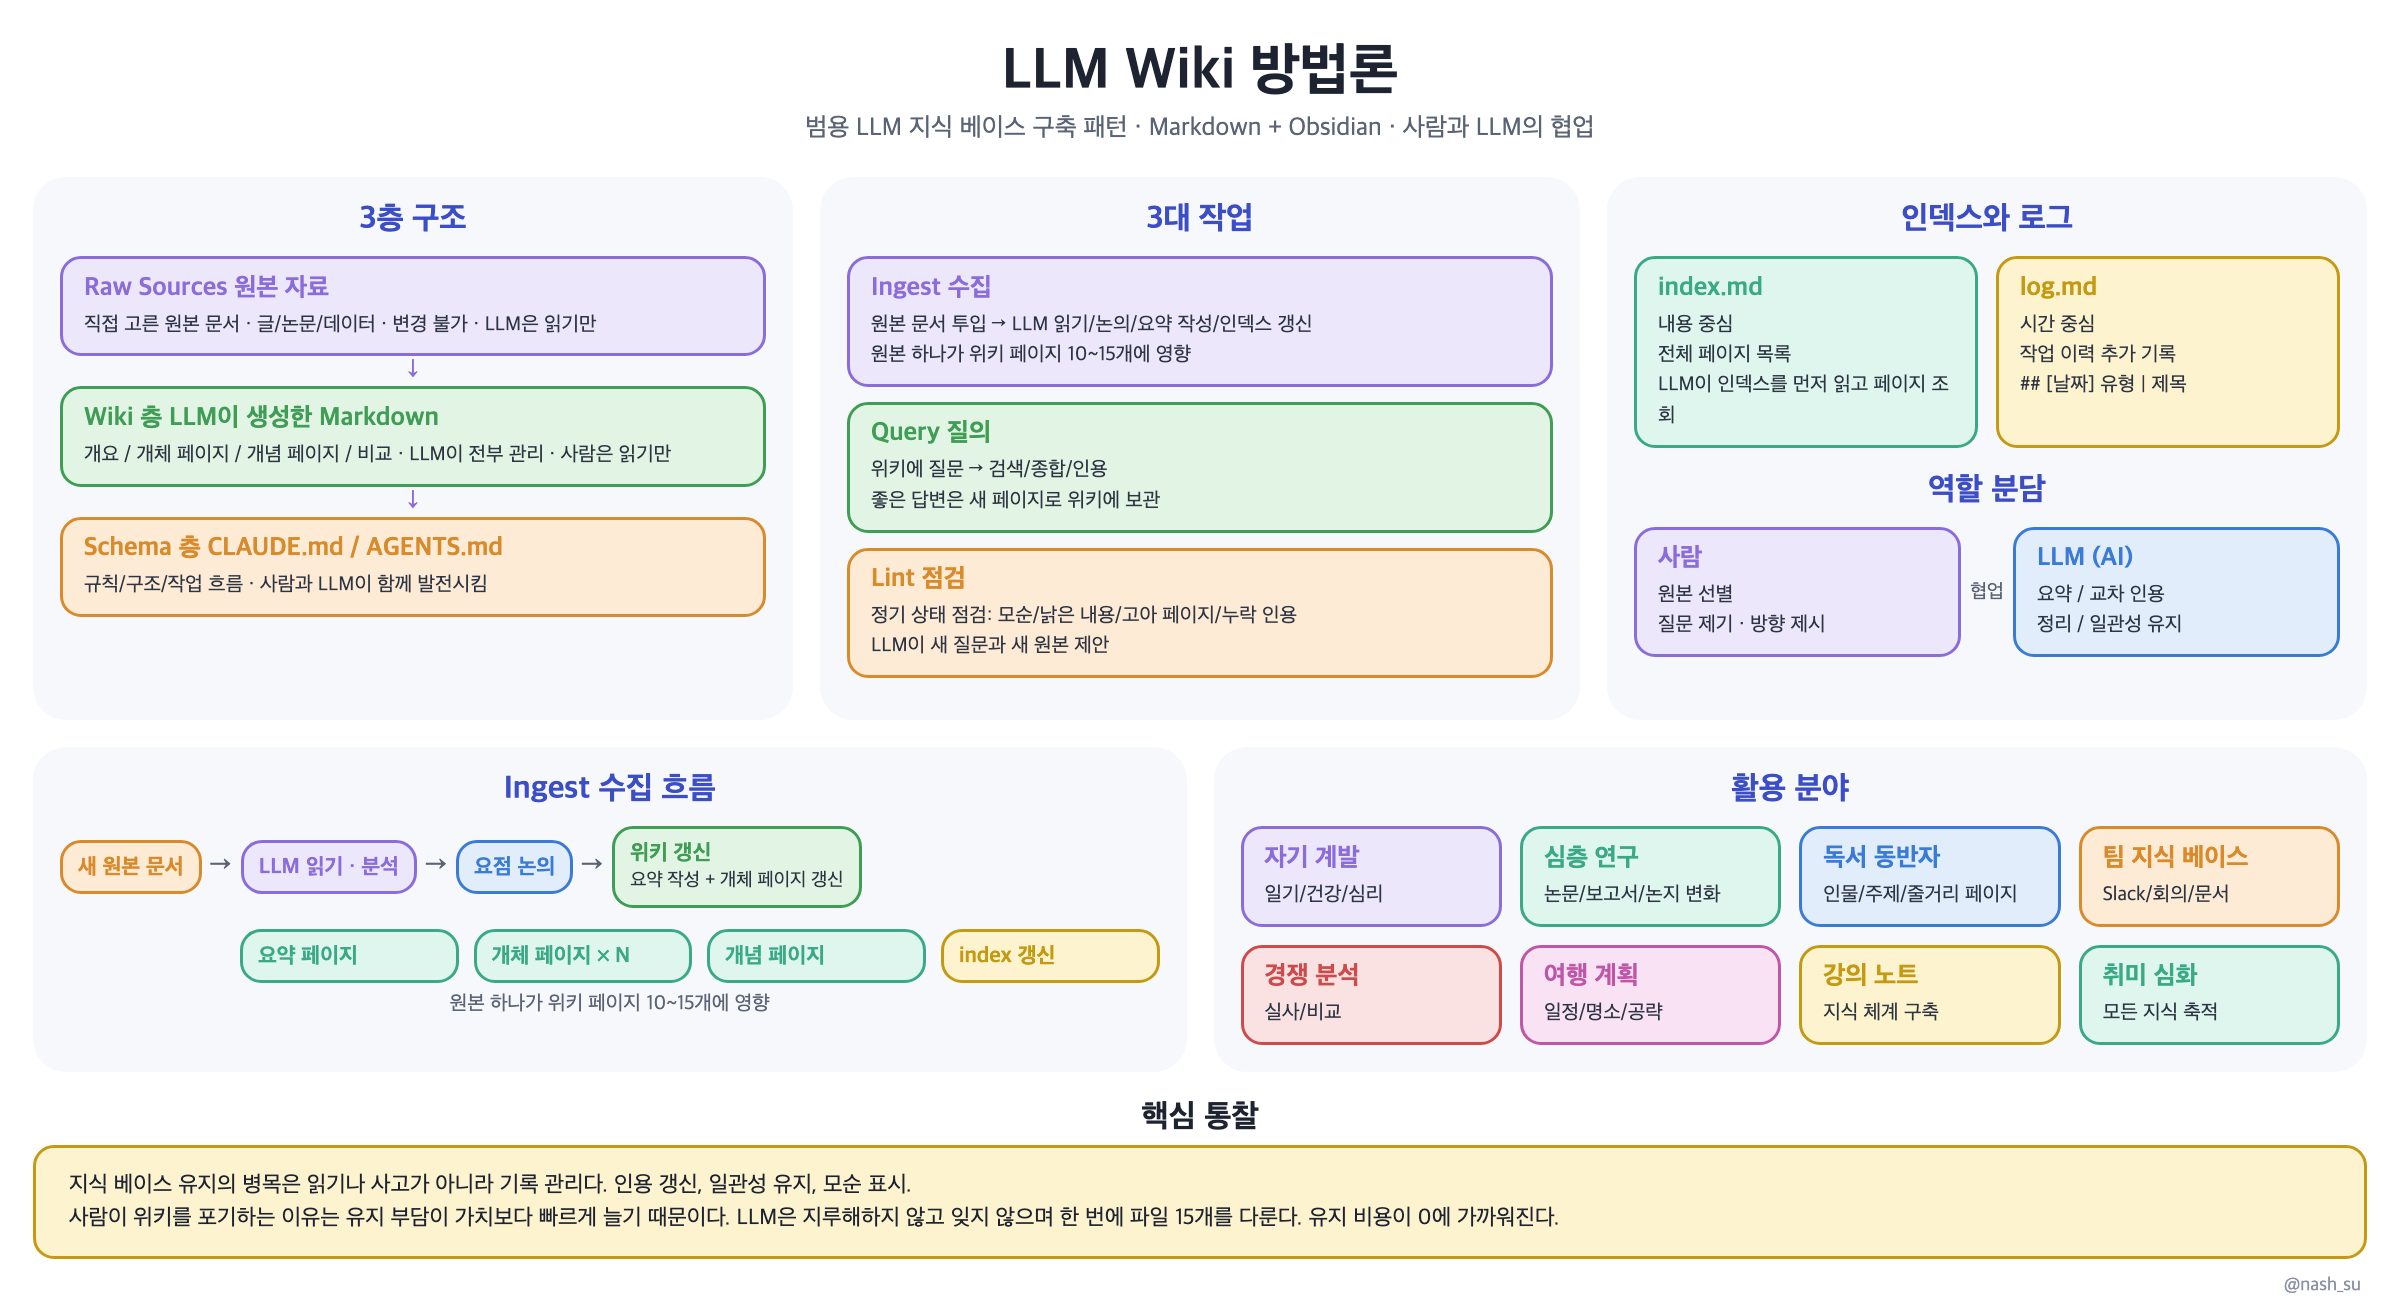
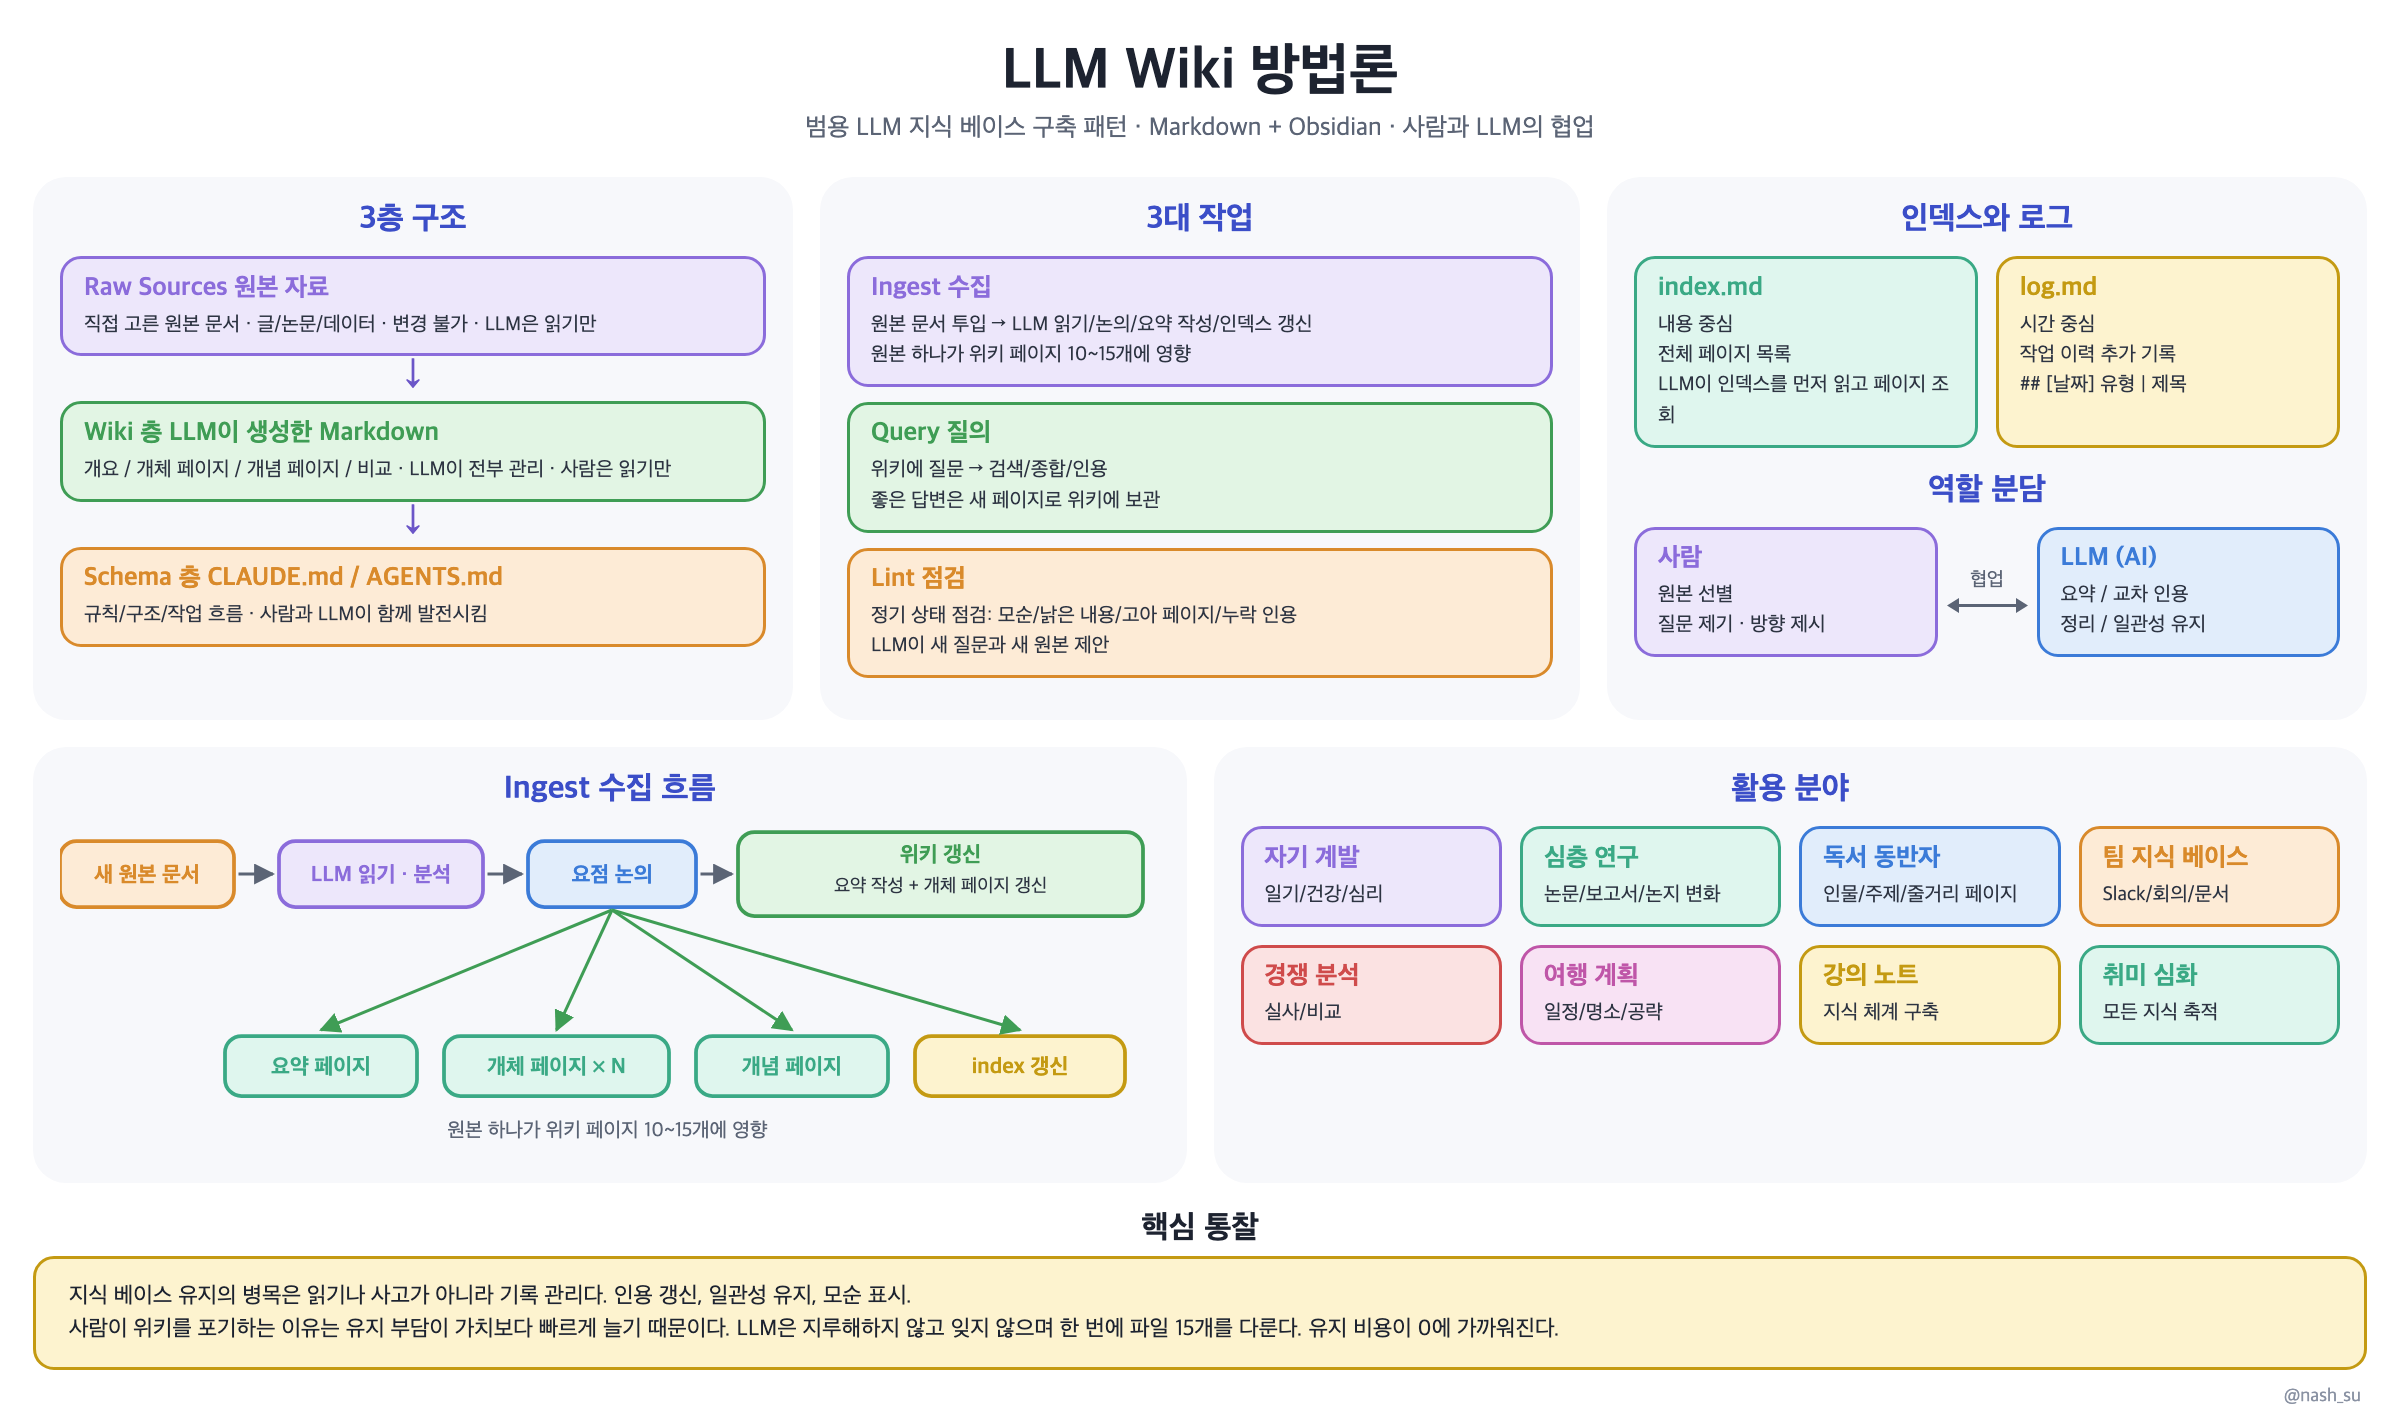
docs: LLM Wiki 01장 그림에 원본의 화살표 복원 (수집 흐름 분기, 역할 협업 연결선, 층 화살표)
테스트에 화살표 수 검사 추가

diff --git a/scripts/figures/llmwiki_arch_ko.py b/scripts/figures/llmwiki_arch_ko.py
@@ -62,15 +62,47 @@ def box(title, body, color, cls="box"):
     return f'<div class="{cls}" style="background:{bg};border-color:{bd}"><h4 style="color:{bd}">{html.escape(title)}</h4>{b}</div>'
 
 
+def flow_svg():
+    """원본 그림의 수집 흐름. 요점 논의에서 산출물 네 개로 화살표가 갈라진다."""
+    def rect(x, y, w, h, color, title, body=""):
+        bg, bd = COLORS[color]
+        t = f'<rect x="{x}" y="{y}" width="{w}" height="{h}" rx="11" fill="{bg}" stroke="{bd}" stroke-width="2.5"/>'
+        ty = y + (20 if body else h / 2 + 5)
+        t += f'<text x="{x + w / 2}" y="{ty}" text-anchor="middle" font-size="14.5" font-weight="700" fill="{bd}">{html.escape(title)}</text>'
+        if body:
+            t += f'<text x="{x + w / 2}" y="{y + 40}" text-anchor="middle" font-size="12.5" fill="#2d3442">{html.escape(body)}</text>'
+        return t
+
+    def arrow(x1, y1, x2, y2, color="#5b6475"):
+        return f'<line x1="{x1}" y1="{y1}" x2="{x2}" y2="{y2}" stroke="{color}" stroke-width="2" marker-end="url(#ah)"/>'
+
+    top = [(0, 116), (146, 136), (312, 112)]  # (x, w) 새 원본 · LLM 읽기 · 요점 논의
+    out = ['<svg width="730" height="215" viewBox="0 0 730 215" font-family="-apple-system,\'Apple SD Gothic Neo\',sans-serif">',
+           '<defs><marker id="ah" viewBox="0 0 10 10" refX="9" refY="5" markerWidth="7" markerHeight="7" orient="auto">'
+           '<path d="M0,0 L10,5 L0,10 z" fill="#5b6475"/></marker>'
+           '<marker id="ahg" viewBox="0 0 10 10" refX="9" refY="5" markerWidth="7" markerHeight="7" orient="auto">'
+           '<path d="M0,0 L10,5 L0,10 z" fill="#3f9d55"/></marker></defs>']
+    for (x, w), (t, c) in zip(top, FLOW):
+        out.append(rect(x, 10, w, 44, c, t))
+    out.append(rect(452, 4, 270, 56, "green", FLOW_END[0], FLOW_END[1]))
+    for (x1, w1), (x2, _) in zip(top, top[1:] + [(452, 0)]):
+        out.append(arrow(x1 + w1 + 3, 32, x2 - 4, 32))
+    bottom = [(110, 128), (256, 150), (424, 128), (570, 140)]
+    sx, sy = 312 + 56, 56
+    for (x, w), (t, c) in zip(bottom, OUTPUTS):
+        out.append(rect(x, 140, w, 40, c, t))
+        out.append(f'<line x1="{sx}" y1="{sy}" x2="{x + w / 2}" y2="136" stroke="#3f9d55" stroke-width="2" marker-end="url(#ahg)"/>')
+    out.append(f'<text x="365" y="207" text-anchor="middle" font-size="13.5" fill="#5b6475">{html.escape(FLOW_NOTE)}</text>')
+    out.append("</svg>")
+    return "".join(out)
+
+
 def page():
     e = html.escape
     layers = "<div class='arrow'>↓</div>".join(box(t, e(d), c) for t, d, c in LAYERS)
     ops = "".join(box(t, d, c, "box op") for t, d, c in OPS)
     index = "".join(box(t, d.replace("|", "&#124;"), c) for t, d, c in INDEX)
-    roles = (box(*ROLES[0][:2], ROLES[0][2]) + "<div class='collab'>협업</div>" + box(*ROLES[1][:2], ROLES[1][2]))
-    flow = "<span class='to'>→</span>".join(box(t, "", c, "box sm") for t, c in FLOW)
-    flow += "<span class='to'>→</span>" + box(FLOW_END[0], e(FLOW_END[1]), "green", "box sm")
-    outs = "".join(box(t, "", c, "box sm") for t, c in OUTPUTS)
+    roles = (box(*ROLES[0][:2], ROLES[0][2]) + "<div class='collab'><span>협업</span><svg width='54' height='14' viewBox='0 0 54 14'><line x1='6' y1='7' x2='48' y2='7' stroke='#5b6475' stroke-width='2'/><path d='M0,7 L8,2 L8,12 z M54,7 L46,2 L46,12 z' fill='#5b6475'/></svg></div>" + box(*ROLES[1][:2], ROLES[1][2]))
     uses = "".join(box(t, e(d), c, "box use") for t, d, c in USES)
     insight = "".join(f"<p>{e(s)}</p>" for s in INSIGHT)
     return f"""<!doctype html><html lang="ko"><head><meta charset="utf-8"><style>
@@ -80,8 +112,8 @@ h1{{text-align:center;margin:26px 0 4px;font-size:38px}} .sub{{text-align:center
 .row{{display:grid;gap:18px;padding:0 22px;margin-bottom:18px}} .r1{{grid-template-columns:1fr 1fr 1fr}} .r2{{grid-template-columns:1fr 1fr}}
 .panel{{background:#f7f8fb;border-radius:22px;padding:14px 18px 18px}} .panel>h3{{text-align:center;margin:2px 0 12px;font-size:21px;color:#3b4ec8}}
 .box{{border:2.5px solid;border-radius:14px;padding:9px 14px;margin:0}} .box h4{{margin:0 0 4px;font-size:17px}} .box p{{margin:0;font-size:13.5px;line-height:1.5;color:#2d3442}}
-.arrow{{text-align:center;color:#8b6cdb;font-size:18px;line-height:20px}} .op{{margin-bottom:10px}}
-.pair{{display:grid;grid-template-columns:1fr 1fr;gap:12px}} .roles{{display:grid;grid-template-columns:1fr auto 1fr;gap:6px;align-items:center}} .collab{{font-size:13px;color:#5b6475}}
+.arrow{{text-align:center;color:#6b56c8;font-size:26px;font-weight:700;line-height:30px}} .op{{margin-bottom:10px}}
+.pair{{display:grid;grid-template-columns:1fr 1fr;gap:12px}} .roles{{display:grid;grid-template-columns:1fr auto 1fr;gap:6px;align-items:center}} .collab{{font-size:13px;color:#5b6475;display:flex;flex-direction:column;align-items:center;gap:2px}}
 .flow{{display:flex;align-items:center;gap:6px;flex-wrap:nowrap}} .sm{{padding:7px 10px}} .sm h4{{font-size:14.5px;margin:0}} .sm p{{font-size:12.5px}} .to{{font-size:20px;color:#5b6475}}
 .outs{{display:grid;grid-template-columns:repeat(4,1fr);gap:10px;margin:14px 0 6px 120px}} .note{{text-align:center;color:#5b6475;font-size:13.5px}}
 .uses{{display:grid;grid-template-columns:repeat(4,1fr);gap:12px}}
@@ -96,7 +128,7 @@ h1{{text-align:center;margin:26px 0 4px;font-size:38px}} .sub{{text-align:center
  <div class="panel"><h3>인덱스와 로그</h3><div class="pair">{index}</div><h3 style="margin-top:16px">역할 분담</h3><div class="roles">{roles}</div></div>
 </div>
 <div class="row r2">
- <div class="panel"><h3>Ingest 수집 흐름</h3><div class="flow">{flow}</div><div class="outs">{outs}</div><div class="note">{e(FLOW_NOTE)}</div></div>
+ <div class="panel"><h3>Ingest 수집 흐름</h3>{flow_svg()}</div>
  <div class="panel"><h3>활용 분야</h3><div class="uses">{uses}</div></div>
 </div>
 <div class="ih">핵심 통찰</div><div class="insight">{insight}</div>
@@ -110,7 +142,7 @@ def main():
         h = pathlib.Path(d) / "arch.html"
         h.write_text(page(), encoding="utf-8")
         subprocess.run([CHROME, "--headless=new", "--disable-gpu", "--hide-scrollbars", "--force-device-scale-factor=1.5",
-                        "--window-size=1600,872", f"--screenshot={OUT}", h.as_uri()], check=True, capture_output=True)
+                        "--window-size=1600,948", f"--screenshot={OUT}", h.as_uri()], check=True, capture_output=True)
     print("wrote", OUT)
 
 

diff --git a/scripts/figures/test_llmwiki_arch_ko.py b/scripts/figures/test_llmwiki_arch_ko.py
@@ -18,3 +18,13 @@ def test_numbers_copied_from_original():
 def test_page_is_korean():
     text = re.sub(r"<[^>]+>", "", a.page())
     assert not re.search(r"[一-鿿]", text)  # 한자 없음
+
+
+def test_arrows_match_original():
+    # 원본: 층 사이 화살표 2개, 수집 흐름 직렬 화살표 3개 + 요점 논의에서 산출물 4개로 갈라지는 화살표, 역할 사이 협업 연결선
+    svg = a.flow_svg()
+    assert svg.count('marker-end="url(#ah)"') == 3
+    assert svg.count('marker-end="url(#ahg)"') == len(a.OUTPUTS) == 4
+    page = a.page()
+    assert page.count("<div class='arrow'>") == len(a.LAYERS) - 1
+    assert "협업</span><svg" in page
